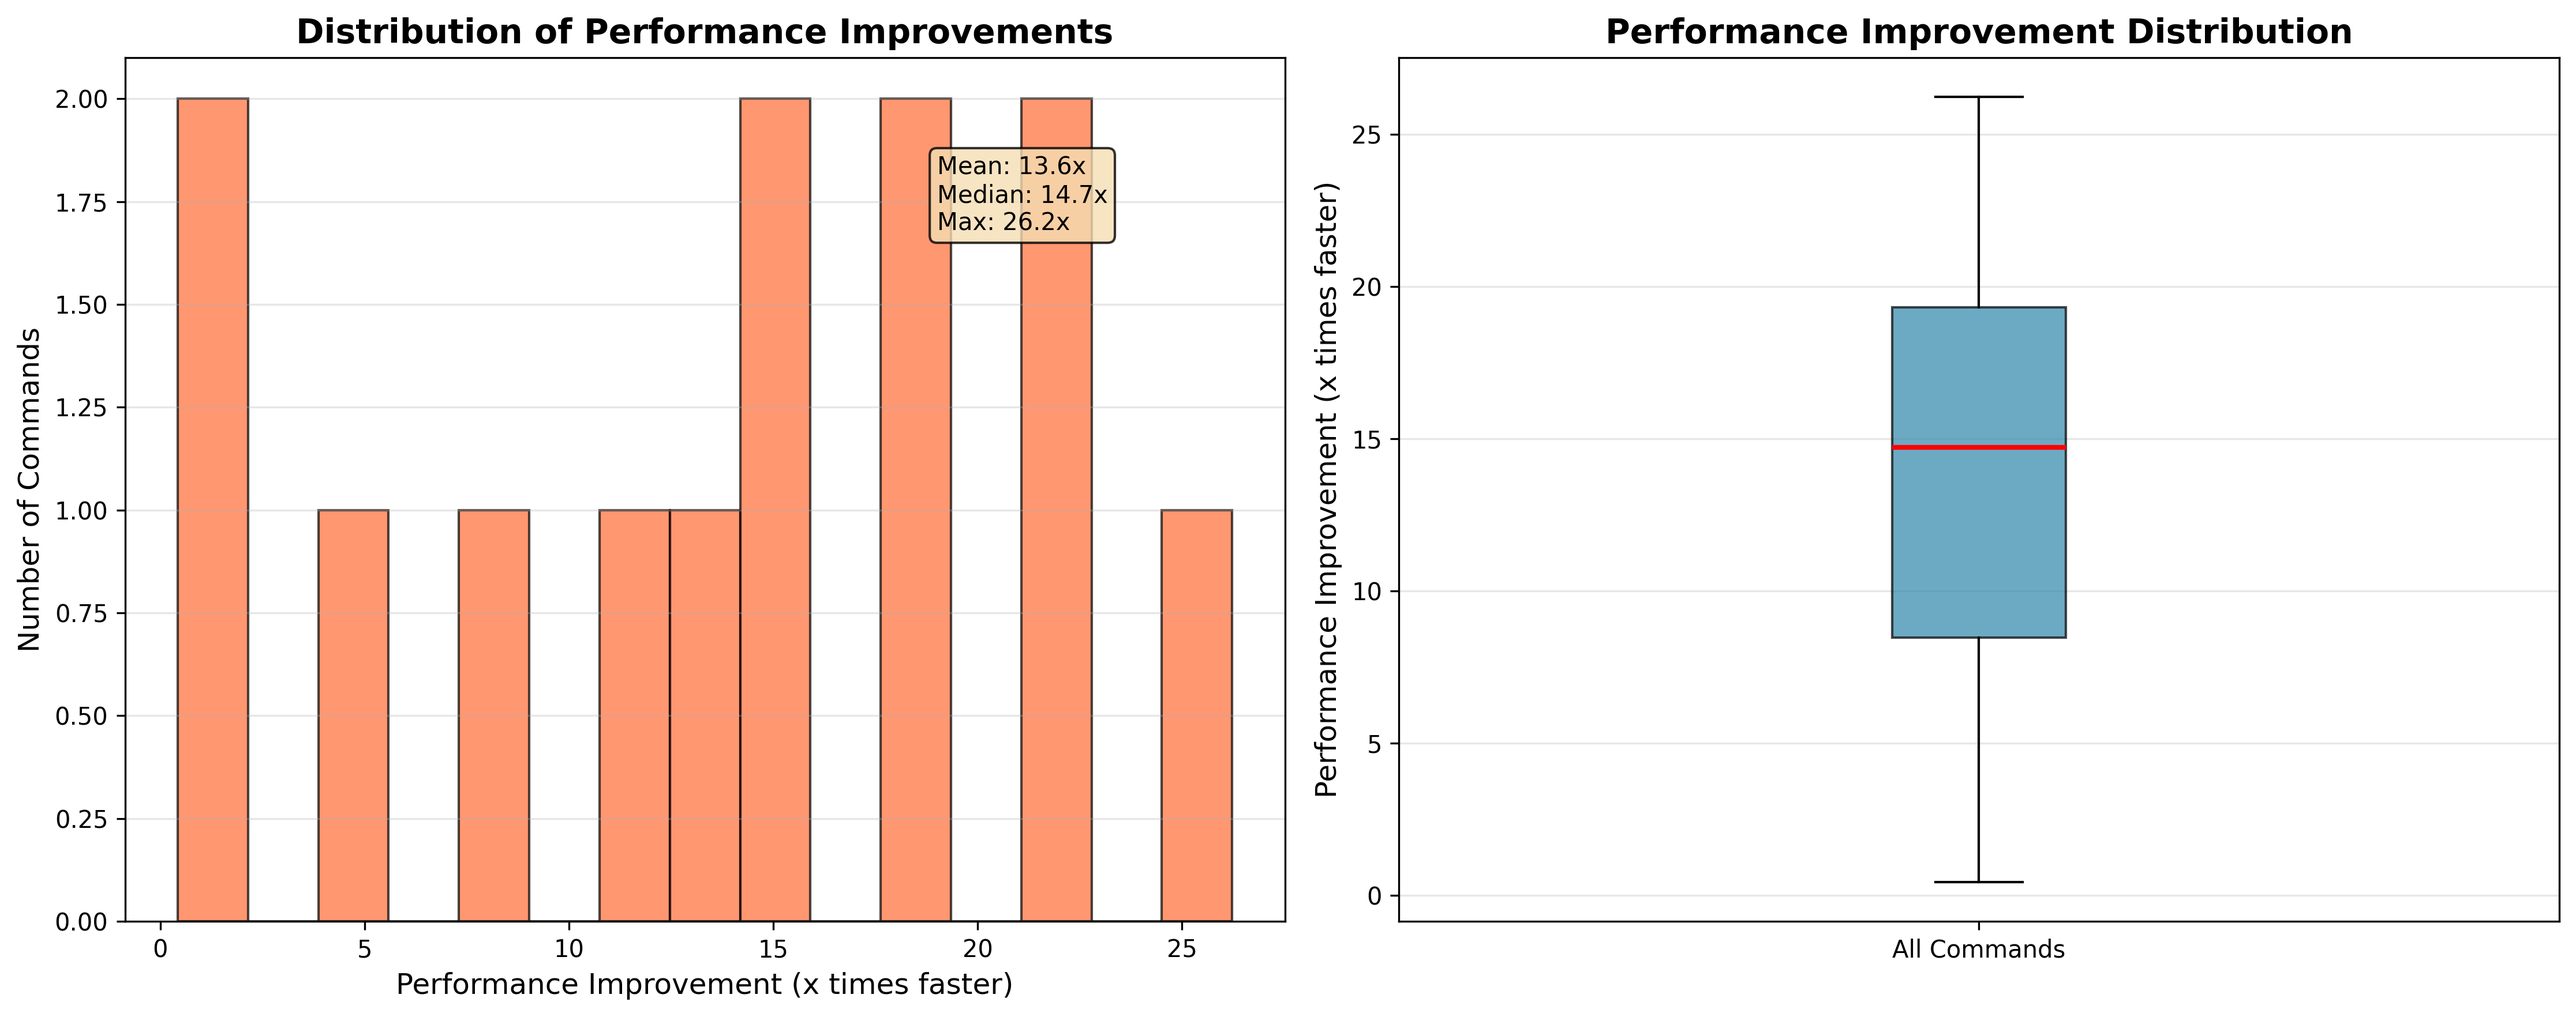
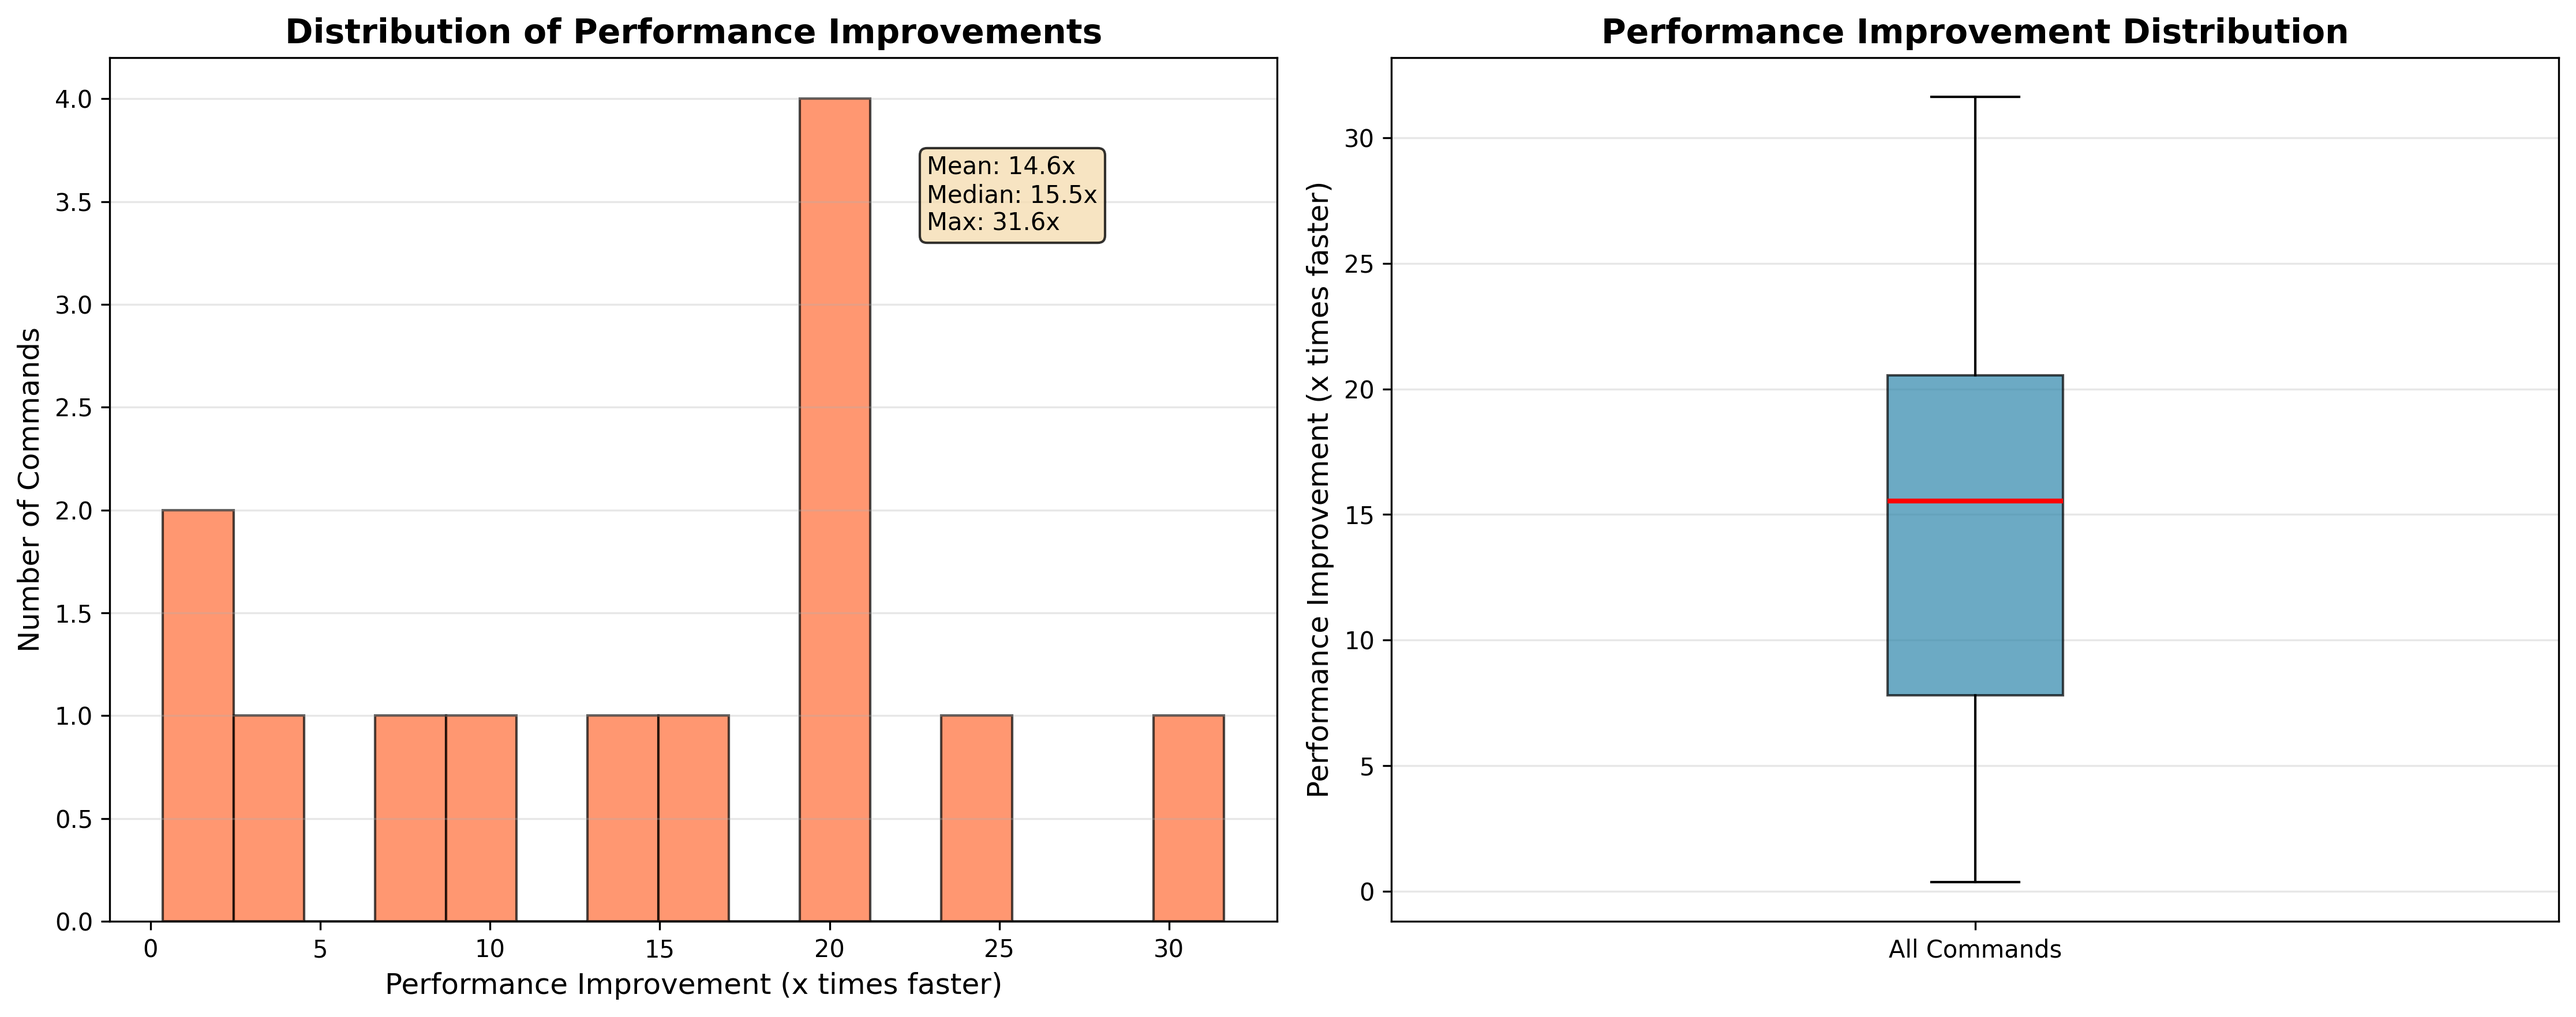
Switch to global cache for drop in Composer replacement

diff --git a/src/core/io.rs b/src/core/io.rs
@@ -4,6 +4,7 @@ use std::collections::HashMap;
 use std::fs;
 use std::io::Write;
 use std::path::Path;
+use crate::core::cache_utils::get_cache_dir;
 use serde_json;
 
 // Composer JSON support
@@ -46,9 +47,9 @@ pub fn write_lock(path: &Path, lock: &Lock) -> Result<()> {
 
 /// Write cache data to a file
 pub fn write_cache(path: &Path, cache: &HashMap<String, String>) -> Result<()> {
-    let cache_dir = Path::new(".lectern_cache");
+    let cache_dir = get_cache_dir();
     if !cache_dir.exists() {
-        fs::create_dir_all(cache_dir)?;
+        fs::create_dir_all(&cache_dir)?;
     }
     let cache_path = cache_dir.join(path);
     let s = serde_json::to_string_pretty(cache)?;
@@ -59,7 +60,7 @@ pub fn write_cache(path: &Path, cache: &HashMap<String, String>) -> Result<()> {
 
 /// Read cache data from a file
 pub fn read_cache(path: &Path) -> Result<HashMap<String, String>> {
-    let cache_dir = Path::new(".lectern_cache");
+    let cache_dir = get_cache_dir();
     let cache_path = cache_dir.join(path);
     if cache_path.exists() {
         let s = fs::read_to_string(&cache_path).with_context(|| format!("read {cache_path:?}"))?;

diff --git a/src/core/cache_utils.rs b/src/core/cache_utils.rs
@@ -38,10 +38,24 @@ pub fn hash_key(key: &str) -> String {
 }
 
 pub fn get_cache_dir() -> PathBuf {
+    // Prefer XDG_CACHE_HOME if set, otherwise fall back to ~/.cache/lectern
+    if let Ok(xdg) = std::env::var("XDG_CACHE_HOME") {
+        return PathBuf::from(xdg).join("lectern");
+    }
+
+    if let Some(home) = dirs::home_dir() {
+        return home.join(".cache").join("lectern");
+    }
+
+    // Fallback to current dir if we couldn't determine a home directory
     std::env::current_dir()
         .unwrap_or_else(|_| PathBuf::from("."))
         .join(".lectern_cache")
 }
+
+// Note: The cache is now global per user. It lives under `$XDG_CACHE_HOME/lectern` when
+// available, otherwise `~/.cache/lectern`. This keeps cache data shared across projects
+// and avoids creating per-project `.lectern_cache` directories.
 
 pub fn get_cache_file_path(cache_type: &str, key: &str) -> PathBuf {
     let cache_dir = get_cache_dir().join(cache_type);

diff --git a/src/core/installer/installer_utils.rs b/src/core/installer/installer_utils.rs
@@ -2,12 +2,10 @@ use anyhow::Result;
 use sha2::Digest;
 use std::path::{Path, PathBuf};
 use tokio::task;
+use crate::core::cache_utils::get_cache_dir;
 
 pub fn get_package_cache_dir() -> PathBuf {
-    std::env::current_dir()
-        .unwrap_or_else(|_| PathBuf::from("."))
-        .join(".lectern_cache")
-        .join("packages")
+    get_cache_dir().join("packages")
 }
 
 pub fn get_cached_package_path(name: &str, version: &str, url: &str) -> PathBuf {

diff --git a/benchmarks/performance-report.md b/benchmarks/performance-report.md
@@ -1,6 +1,6 @@
 # Lectern vs Composer Comprehensive Benchmark Report
 
-Generated: 2025-09-17 10:56:15
+Generated: 2025-09-17 11:50:35
 
 ## Summary
 
@@ -11,8 +11,8 @@ Please note that performance is tested when both Composer and Lectern have warm 
 ### Overall Performance
 - **Tests Completed**: 13
 - **Successful Comparisons**: 13
-- **Average Performance Improvement**: 13.6x faster
-- **Best Performance**: 26.2x faster
+- **Average Performance Improvement**: 14.6x faster
+- **Best Performance**: 31.6x faster
 - **Architecture**: Rust with concurrent operations, multi-layered caching
 
 ## Detailed Results
@@ -52,47 +52,47 @@ Performance breakdown by command category, comparing average improvements and ex
 
 | Command | Lectern Time | Composer Time | Performance | Status |
 |---------|--------------|---------------|-------------|--------|
-| Install Dependencies | 0.175s | 2.046s | 11.7x | 🚀 11.7x faster |
-| Update Dependencies | 0.133s | 2.951s | 22.2x | 🚀 22.2x faster |
-| Search Packages | 0.269s | 1.069s | 4.0x | 🚀 4.0x faster |
-| Show Package Info | 0.045s | 1.190s | 26.2x | 🚀 26.2x faster |
-| Check Outdated | 0.233s | 0.100s | 0.4x | ⚡ 2.3x slower |
-| Show Licenses | 0.006s | 0.099s | 15.3x | 🚀 15.3x faster |
-| Show Status | 0.007s | 0.096s | 14.7x | 🚀 14.7x faster |
-| Require Package | 0.138s | 3.062s | 22.2x | 🚀 22.2x faster |
-| Remove Package | 0.129s | 1.092s | 8.5x | 🚀 8.5x faster |
-| Status Check (simple-laravel) | 0.007s | 0.096s | 13.6x | 🚀 13.6x faster |
-| Outdated Check (simple-laravel) | 0.200s | 0.099s | 0.5x | ⚡ 2.0x slower |
-| Status Check (symfony-app) | 0.005s | 0.093s | 19.3x | 🚀 19.3x faster |
-| Outdated Check (symfony-app) | 0.005s | 0.099s | 18.6x | 🚀 18.6x faster |
+| Install Dependencies | 0.195s | 2.065s | 10.6x | 🚀 10.6x faster |
+| Update Dependencies | 0.142s | 3.004s | 21.2x | 🚀 21.2x faster |
+| Search Packages | 0.342s | 1.139s | 3.3x | 🚀 3.3x faster |
+| Show Package Info | 0.045s | 1.435s | 31.6x | 🚀 31.6x faster |
+| Check Outdated | 0.354s | 0.128s | 0.4x | ⚡ 2.8x slower |
+| Show Licenses | 0.008s | 0.202s | 24.6x | 🚀 24.6x faster |
+| Show Status | 0.008s | 0.108s | 14.0x | 🚀 14.0x faster |
+| Require Package | 0.164s | 3.377s | 20.5x | 🚀 20.5x faster |
+| Remove Package | 0.149s | 1.164s | 7.8x | 🚀 7.8x faster |
+| Status Check (simple-laravel) | 0.006s | 0.098s | 15.5x | 🚀 15.5x faster |
+| Outdated Check (simple-laravel) | 0.219s | 0.110s | 0.5x | ⚡ 2.0x slower |
+| Status Check (symfony-app) | 0.005s | 0.095s | 19.6x | 🚀 19.6x faster |
+| Outdated Check (symfony-app) | 0.005s | 0.100s | 20.1x | 🚀 20.1x faster |
 
 ### Performance Categories
 
 #### ⚡ Ultra-Fast Commands (10x+ improvement)
 9 commands with exceptional performance gains:
-- **Install Dependencies**: 11.7x faster (2.046s → 0.175s)
-- **Update Dependencies**: 22.2x faster (2.951s → 0.133s)
-- **Show Package Info**: 26.2x faster (1.190s → 0.045s)
-- **Show Licenses**: 15.3x faster (0.099s → 0.006s)
-- **Show Status**: 14.7x faster (0.096s → 0.007s)
-- **Require Package**: 22.2x faster (3.062s → 0.138s)
-- **Status Check (simple-laravel)**: 13.6x faster (0.096s → 0.007s)
-- **Status Check (symfony-app)**: 19.3x faster (0.093s → 0.005s)
-- **Outdated Check (symfony-app)**: 18.6x faster (0.099s → 0.005s)
+- **Install Dependencies**: 10.6x faster (2.065s → 0.195s)
+- **Update Dependencies**: 21.2x faster (3.004s → 0.142s)
+- **Show Package Info**: 31.6x faster (1.435s → 0.045s)
+- **Show Licenses**: 24.6x faster (0.202s → 0.008s)
+- **Show Status**: 14.0x faster (0.108s → 0.008s)
+- **Require Package**: 20.5x faster (3.377s → 0.164s)
+- **Status Check (simple-laravel)**: 15.5x faster (0.098s → 0.006s)
+- **Status Check (symfony-app)**: 19.6x faster (0.095s → 0.005s)
+- **Outdated Check (symfony-app)**: 20.1x faster (0.100s → 0.005s)
 
 #### 🚀 Fast Commands (2-10x improvement)
 2 commands with significant performance gains:
-- **Search Packages**: 4.0x faster (1.069s → 0.269s)
-- **Remove Package**: 8.5x faster (1.092s → 0.129s)
+- **Search Packages**: 3.3x faster (1.139s → 0.342s)
+- **Remove Package**: 7.8x faster (1.164s → 0.149s)
 
 #### 🟰 Similar Performance (0.5-2x)
-0 commands with comparable performance:
-
+1 commands with comparable performance:
+- **Outdated Check (simple-laravel)**: 0.5x (0.110s vs 0.219s)
 
 ## Technical Architecture
 
-### Caching System
-- **Multi-layered caching**: Filesystem-based persistent cache in `.lectern_cache/`
+-### Caching System
+- **Multi-layered caching**: Filesystem-based persistent cache in `$XDG_CACHE_HOME/lectern` (or `~/.cache/lectern`)
 - **Cache structure**: SHA-256 hashed keys for efficient storage
 - **Specialized caches**: 
   - Package metadata cache
@@ -116,31 +116,31 @@ Performance breakdown by command category, comparing average improvements and ex
 
 ### Core Commands
 #### Install Dependencies
-- **Performance**: 11.7x faster
-- **Lectern**: 0.175s
-- **Composer**: 2.046s
-- **Status**: 🚀 11.7x faster
+- **Performance**: 10.6x faster
+- **Lectern**: 0.195s
+- **Composer**: 2.065s
+- **Status**: 🚀 10.6x faster
 - **Notes**: Real installation with backup/restore
 
 #### Update Dependencies
-- **Performance**: 22.2x faster
-- **Lectern**: 0.133s
-- **Composer**: 2.951s
-- **Status**: 🚀 22.2x faster
+- **Performance**: 21.2x faster
+- **Lectern**: 0.142s
+- **Composer**: 3.004s
+- **Status**: 🚀 21.2x faster
 - **Notes**: Real update with backup/restore
 
 #### Search Packages
-- **Performance**: 4.0x faster
-- **Lectern**: 0.269s
-- **Composer**: 1.069s
-- **Status**: 🚀 4.0x faster
+- **Performance**: 3.3x faster
+- **Lectern**: 0.342s
+- **Composer**: 1.139s
+- **Status**: 🚀 3.3x faster
 - **Notes**: Standard operation
 
 #### Show Package Info
-- **Performance**: 26.2x faster
+- **Performance**: 31.6x faster
 - **Lectern**: 0.045s
-- **Composer**: 1.190s
-- **Status**: 🚀 26.2x faster
+- **Composer**: 1.435s
+- **Status**: 🚀 31.6x faster
 - **Notes**: Standard operation
 
 
@@ -158,7 +158,7 @@ Performance breakdown by command category, comparing average improvements and ex
 Lectern demonstrates significant performance improvements over Composer while maintaining full compatibility. The combination of Rust's performance, concurrent operations, and intelligent caching provides substantial speed gains for PHP package management.
 
 ### Key Achievements
-- **Average 13.6x performance improvement**
+- **Average 14.6x performance improvement**
 - **Full command compatibility** with Composer
 - **Intelligent caching** with persistence
 - **Concurrent operations** for parallel processing

diff --git a/README.md b/README.md
@@ -19,6 +19,11 @@ Check out the full [Lectern v. Composer Benchmark Report](https://github.com/zan
 
 ## Commands
 
+## Cache location
+
+- Lectern uses a global user cache directory by default. It will use `$XDG_CACHE_HOME/lectern` when the XDG environment is set, otherwise `~/.cache/lectern`.
+- To clear the cache manually, remove that directory (for example `rm -rf ~/.cache/lectern`).
+
 ### `lectern install`
 Installs the dependencies listed in the `composer.json` file. Equivalent to `composer install`.
 

diff --git a/benchmarks/report_template.md b/benchmarks/report_template.md
@@ -41,8 +41,8 @@ Please note that performance is tested when both Composer and Lectern have warm 
 
 ## Technical Architecture
 
-### Caching System
-- **Multi-layered caching**: Filesystem-based persistent cache in `.lectern_cache/`
+-### Caching System
+- **Multi-layered caching**: Filesystem-based persistent cache in `$XDG_CACHE_HOME/lectern` (or `~/.cache/lectern`)
 - **Cache structure**: SHA-256 hashed keys for efficient storage
 - **Specialized caches**: 
   - Package metadata cache
